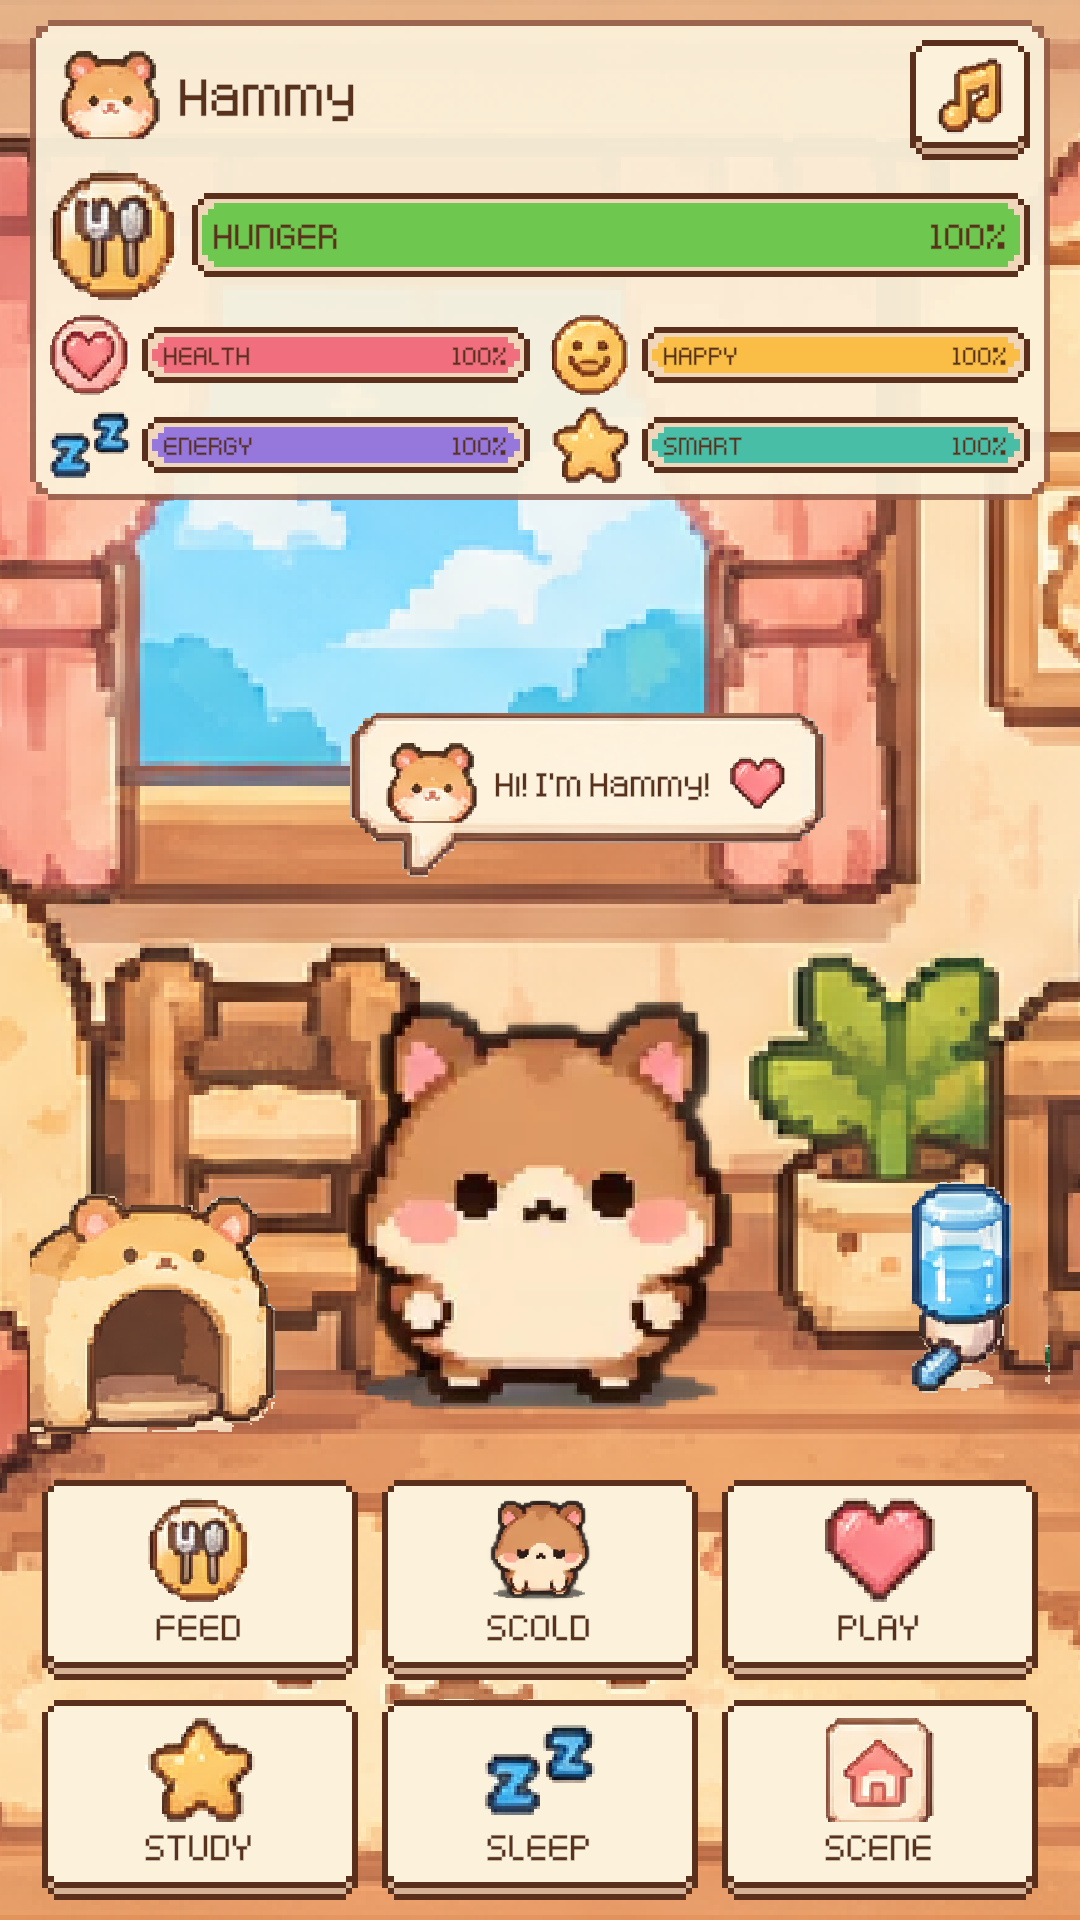
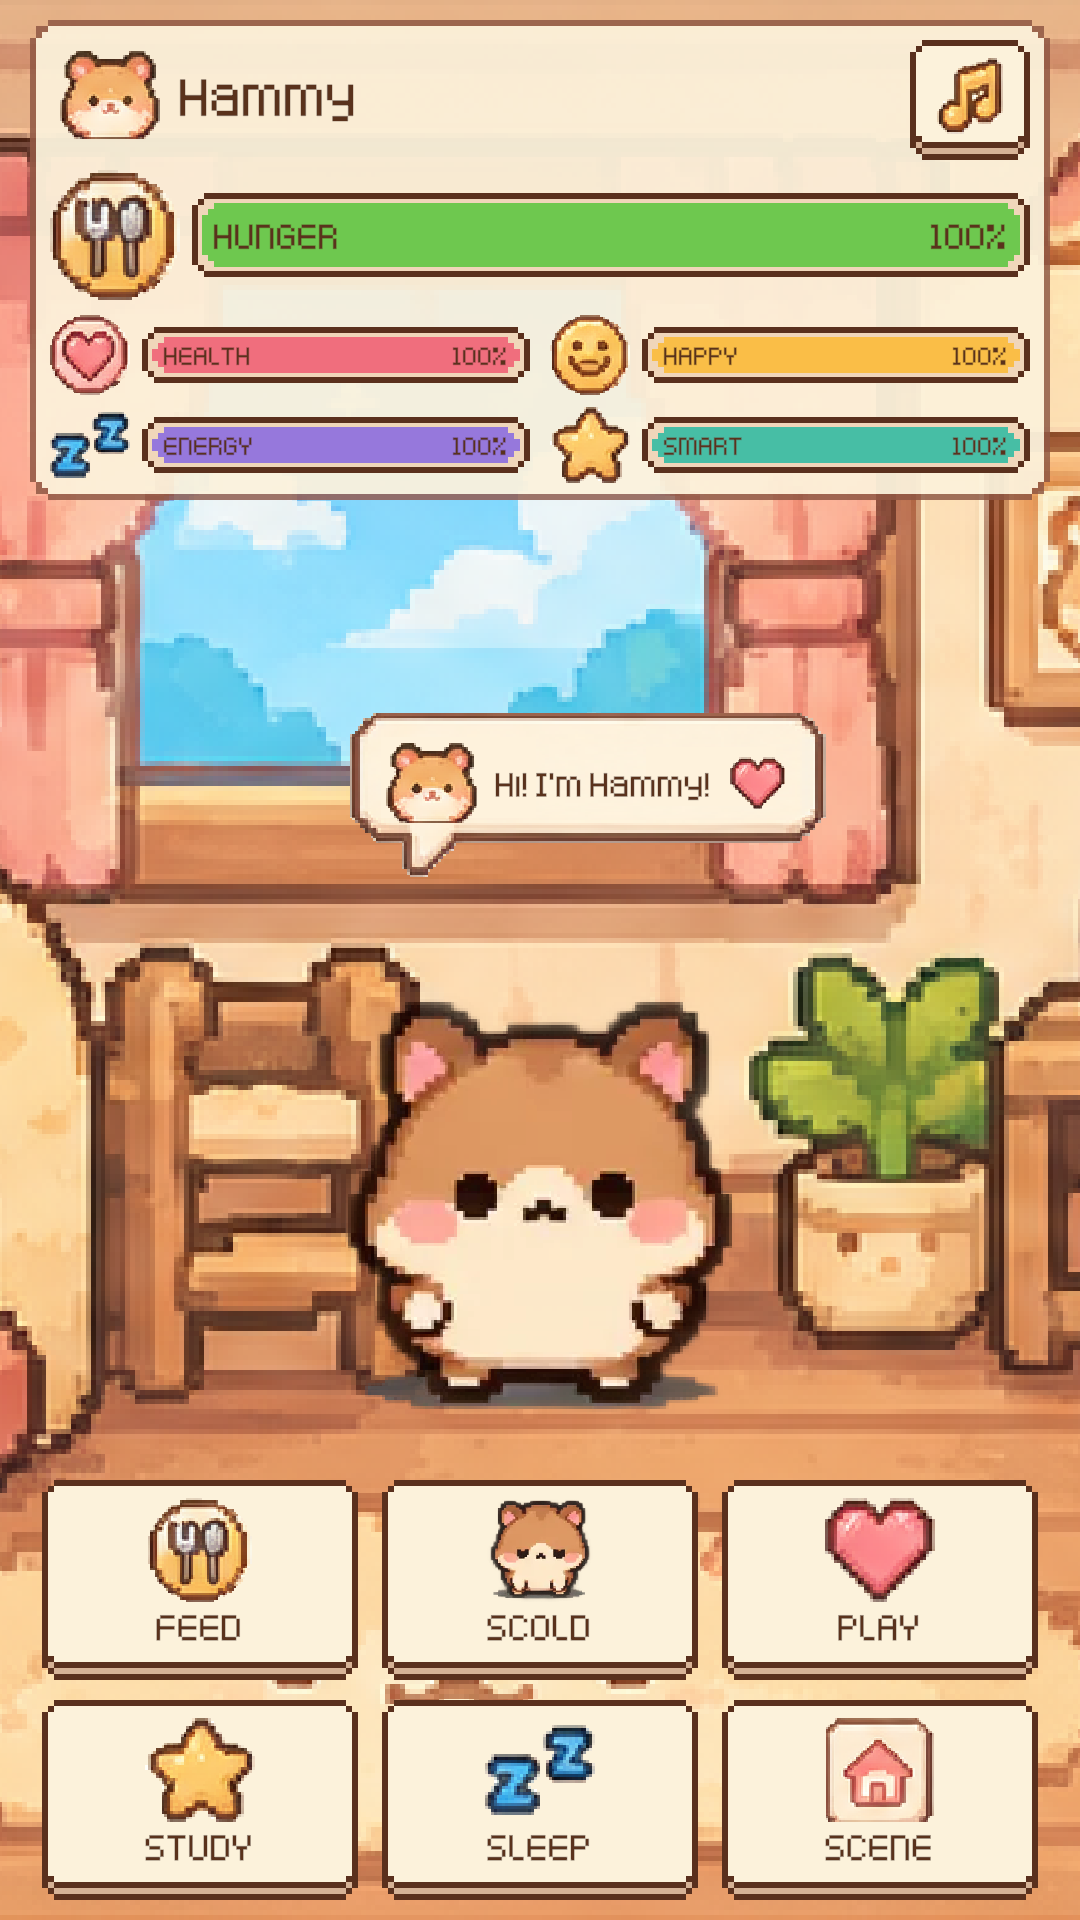
Update README and screenshots for the cleaned-up props

Changed region(s): [[0.0306, 0.625, 0.275, 0.75], [0.825, 0.5938, 0.9472, 0.75]]

diff --git a/README.md b/README.md
@@ -39,11 +39,11 @@ and it gets **sick**.
 - **Full-screen scenes:** the background fills the whole screen behind the UI. The **Scene** button
   cycles through 6 pixel-art backgrounds (default: cozy home). The stats sit at the top and the
   buttons at the bottom, leaving the middle clear so nothing covers the pet.
-- **Props from the asset pack:** the food bowl appears while eating, the pet sleeps in the soft bed, and
-  every scene has matching props beside the pet (hamster house + water bottle at home, sign + fence in
-  the garden, palm tree + umbrella at the beach, tree stump + rocks by the stream, plants on the rooftop).
+- **Props from the asset pack where they mean something:** the food bowl appears while eating and the pet
+  sleeps in the soft bed. Scenes stay clean (no extra decoration over the painted backgrounds).
 - **Speech bubble** in the asset pack's style (hamster face, text, heart) above the pet reacts to every action ("Yum yum!", "Too tired to study...").
   Messages fade after a few seconds; warnings like **"I'm HANGRY! Feed me!"** stay until fixed.
+  While the pet sleeps the bubble is hidden (the sleeping animation draws its own "Zzz").
 - **Animated pet with a state machine** (`PetController`). It reacts visibly to every button and to its stats:
 
   | State | When | Animation and effect |
@@ -107,7 +107,7 @@ Assets/
   Art/
     Pet/Hamster/      hamster animation frames (idle, eating, studying, sleeping, happy, playing, sad, crying)
     Backgrounds/      6 full scenes (cozy_home, moonlit_bedroom, sunny_garden, beach, forest_stream, sunset_rooftop)
-    Props/            decorative props (Home, Garden, Beach, Forest)
+    Props/            props from the pack (the food bowl and soft bed are used in game)
     UI/               Buttons/, Dialogs/, Status/ sprites from the pack
       Icons/          round stat icons cut from the Status bars (by Tools/make_ui_sprites.py)
       Generated/      9-slice bar/button/panel frames drawn in the pack's palette
@@ -126,7 +126,6 @@ Assets/
     UI/SpeechBubble.cs  pop-in speech bubble above the pet (normal or sticky messages)
     UI/SafeArea.cs    keeps UI clear of notches and cut-outs
     UI/PortraitFrame.cs keeps the UI a centered 9:16 column in wide windows
-    World/SceneDecor.cs  props beside the pet that match the current background
     World/BackgroundSwitcher.cs  full-screen background: Scene button cycling + temporary override (used by Sleep)
     Pet/PetStats.cs        the five stats: decay, actions, sleep, health, hangry, sick
     Pet/PetStatsConfig.cs  ScriptableObject with all tuning numbers
